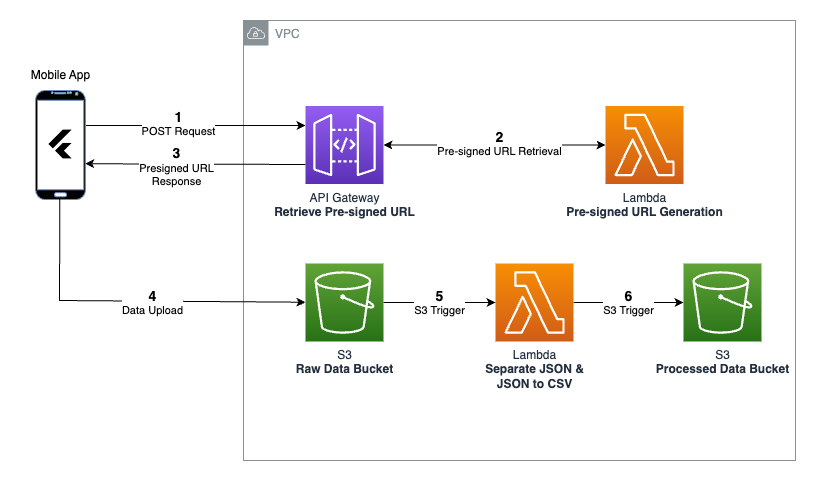
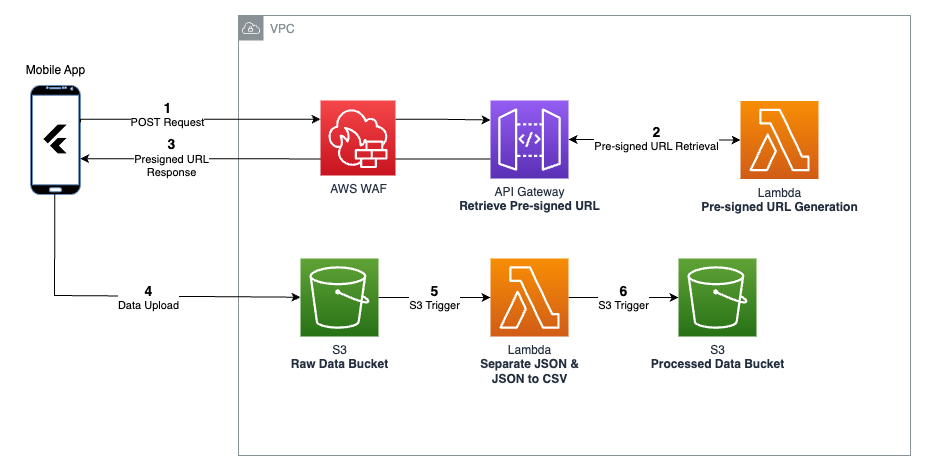
Updated architecture docs to include waf firewall

diff --git a/docs/ArchitectureDeepDive.md b/docs/ArchitectureDeepDive.md
@@ -11,7 +11,7 @@
 
 ### **Data Input Flow of the Mobile App (1-6)**
 
-1. When an administrator ends a study on the app, the app will attempt to send a POST request to an API Gateway with an API key for authentication to retrieve a pre-signed URL to upload to the raw data S3 Bucket. If the device is not connected to the internet or the uploading fails, the locally stored data will be retained on the device.
+1. When an administrator ends a study on the app, the app will attempt to send a POST request to an API Gateway with an API key for authentication to retrieve a pre-signed URL to upload to the raw data S3 Bucket. The POST request passes through an AWS Web Application Firewall which implements the AWS Core rule set rule group and a rate-based rule limiting requests the number of requests that can be recieved in a fixed period of time. If the device is not connected to the internet or the uploading fails, the locally stored data will be retained on the device.
 2. The API Gateway calls a lambda function which retrieves the pre-signed URL. For authentication, the Lambda function retrieves the stored API key from AWS Secrets manager to ensure the API key sent in the POST request matches the stored API key.
 3. This pre-signed URL is then returned back to the mobile app through the API Gateway.
 4. The mobile app then compiles a JSON file containing all the data collected in the study and submits the JSON file in a PUT request to the pre-signed URL.
